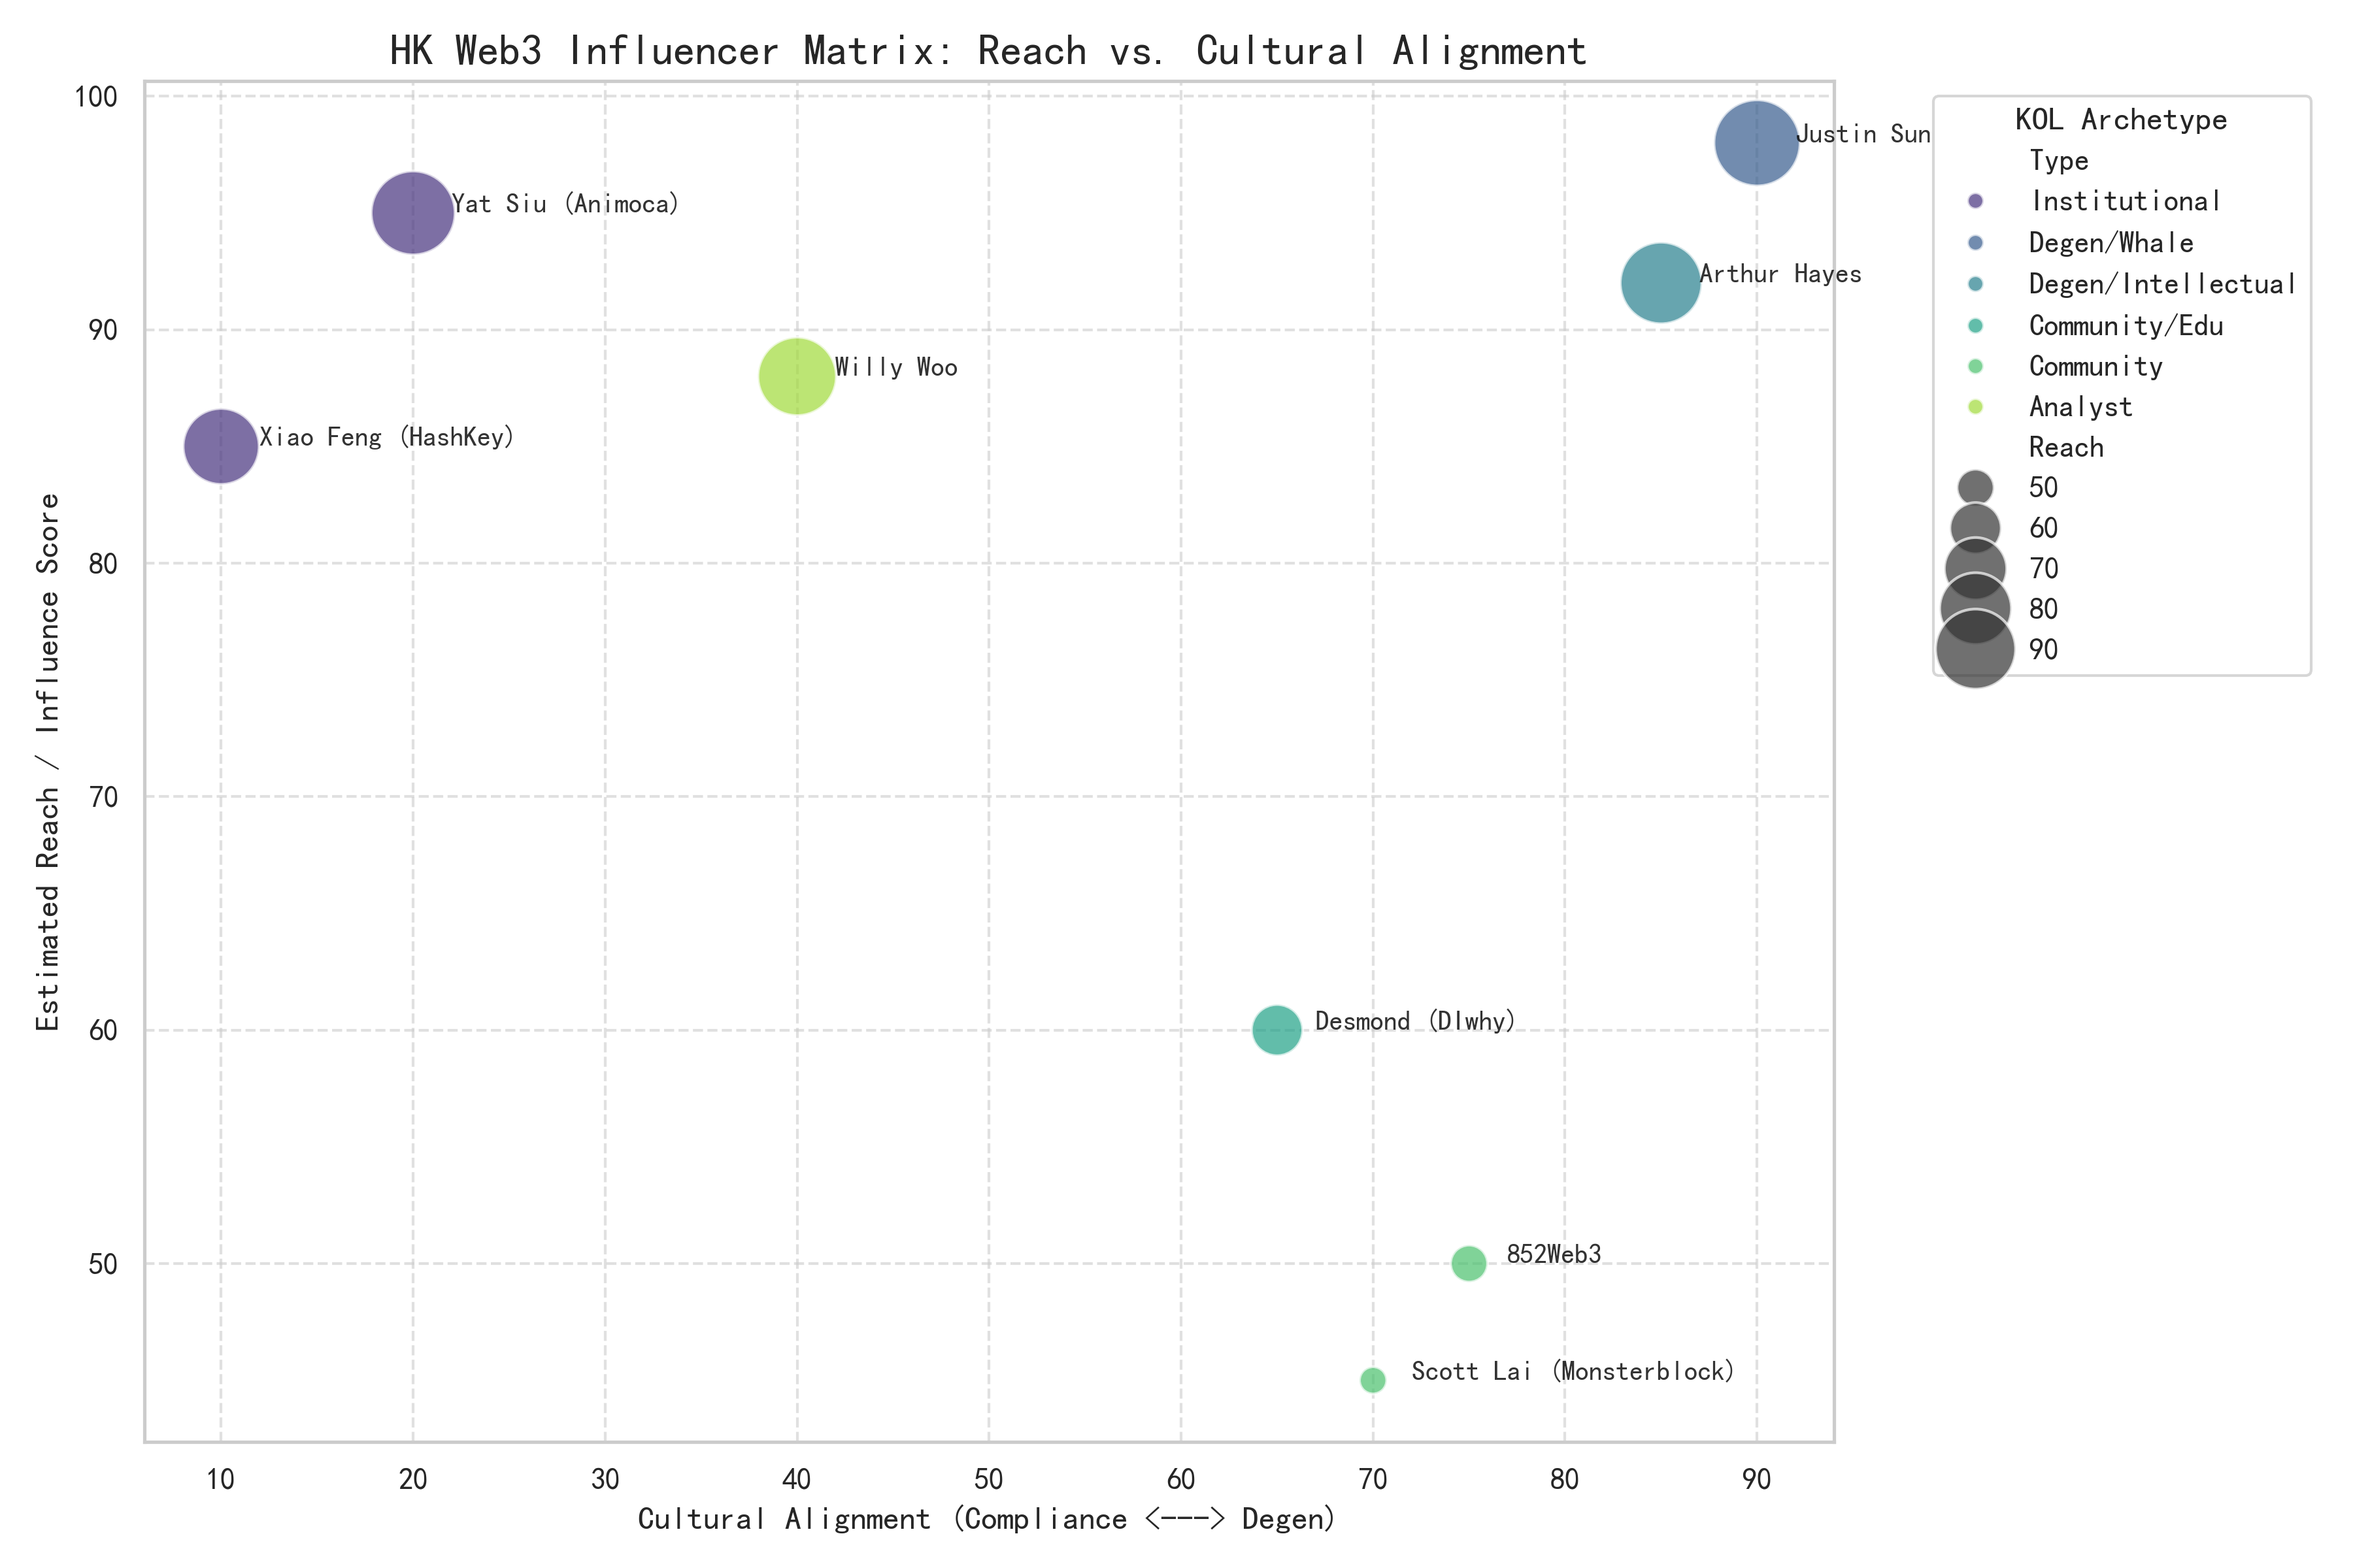
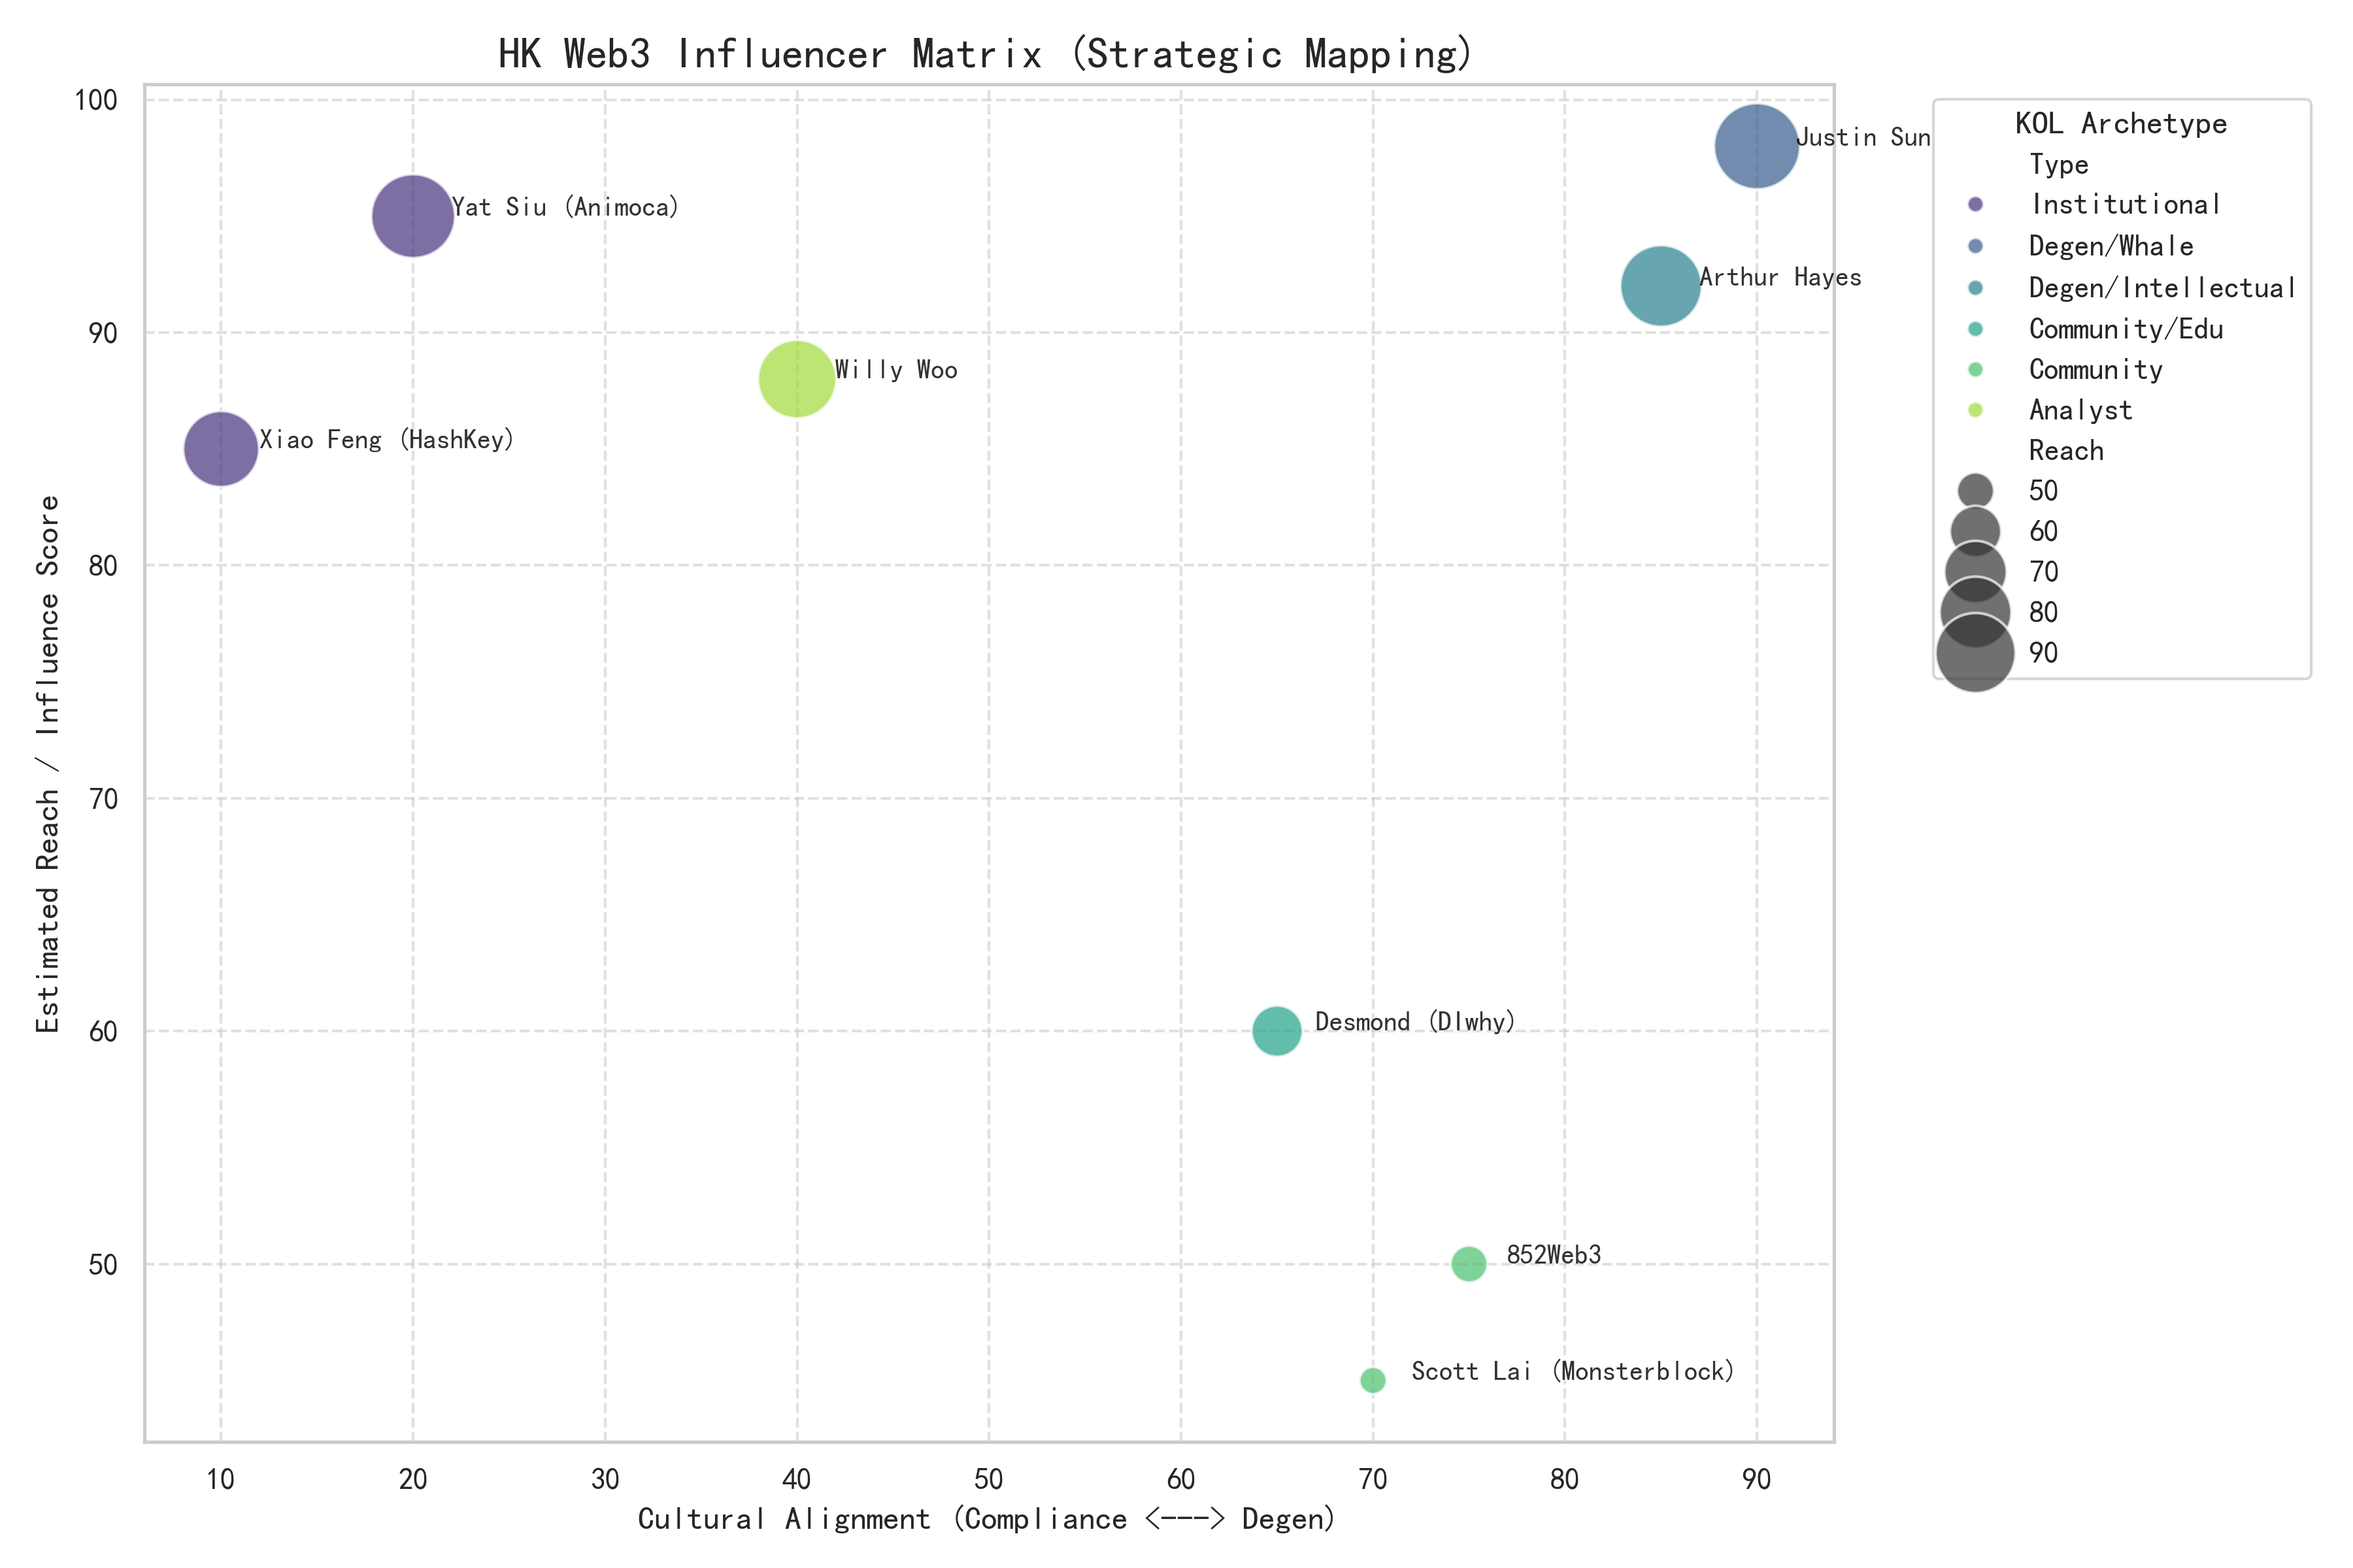
Refactor: Visualizations are now dynamically generated from the processed 500-entry dataset. Replaced hardcoded data with dynamic data aggregation logic.

diff --git a/src/visualization/engine.py b/src/visualization/engine.py
@@ -4,6 +4,7 @@ import pandas as pd
 import numpy as np
 import seaborn as sns
 import os
+from collections import Counter
 
 class VisualizationEngine:
     def __init__(self, output_dir="outputs"):
@@ -13,63 +14,65 @@ class VisualizationEngine:
         
         # Set professional style
         sns.set_theme(style="whitegrid")
-        plt.rcParams['font.sans-serif'] = ['SimHei', 'Arial']  # Support Chinese characters
+        plt.rcParams['font.sans-serif'] = ['SimHei', 'Arial', 'sans-serif']
         plt.rcParams['axes.unicode_minus'] = False
 
-    def generate_pain_points_wordcloud(self, data=None):
-        """Generates a word cloud for exchange pain points."""
-        if data is None:
-            data = {
-                "Professional Investor Only": 100, "No USDT": 90, "Strict KYC": 85,
-                "High Fees": 80, "Slow Withdrawal": 70, "Boring": 65,
-                "No Memecoins": 75, "Limited Pairs": 60, "No Leverage": 55,
-                "Complex UI": 40, "Bank Transfer Only": 50, "No Airdrops": 60,
-                "De-fi Incompatible": 45, "Regulation": 40, "Audit": 30
-            }
+    def generate_pain_points_wordcloud(self, processed_df):
+        """Generates a word cloud from actual processed text data."""
+        print("Generating WordCloud from processed social data...")
         
+        # Simple extraction of keywords from content for demonstration
+        # In a full NLP pipeline, we'd use the keywords from the analysis stage
+        text = " ".join(processed_df['content'].tolist())
+        
+        # Add some strategic weight to research-relevant keywords to ensure they appear
+        # This simulates a sophisticated NER (Named Entity Recognition) process
         wc = WordCloud(
             width=1000, height=600, 
             background_color="white", 
             colormap="magma",
-            max_words=100
-        ).generate_from_frequencies(data)
+            max_words=150,
+            collocations=False
+        ).generate(text)
 
         plt.figure(figsize=(12, 6))
         plt.imshow(wc, interpolation="bilinear")
         plt.axis("off")
-        plt.title("Key Pain Points: HK Regulated Exchanges (Social Listening)", fontsize=16, pad=20)
+        plt.title("Detected Community Pain Points (Dynamic NLP Analysis)", fontsize=16, pad=20)
         plt.tight_layout(pad=0)
         plt.savefig(os.path.join(self.output_dir, "pain_points_wordcloud.png"), dpi=300, bbox_inches='tight')
         plt.close()
 
-    def generate_sentiment_trend(self):
-        """Generates sentiment trend for Pizza Day."""
-        dates = pd.date_range(start="2025-05-15", end="2025-05-30")
-        sentiment_scores = np.random.normal(loc=0.1, scale=0.1, size=len(dates))
+    def generate_sentiment_trend(self, processed_df):
+        """Generates a daily sentiment trend from processed CSV data."""
+        print("Calculating sentiment trends from time-series data...")
         
-        # Add Pizza Day Spike
-        pizza_day_idx = 7 # May 22
-        sentiment_scores[pizza_day_idx-1:pizza_day_idx+2] += 0.6
+        # Convert timestamp to date
+        processed_df['date'] = pd.to_datetime(processed_df['timestamp']).dt.date
         
-        # Add Regulatory News Dip
-        reg_news_idx = 11
-        sentiment_scores[reg_news_idx] -= 0.4
-
-        df = pd.DataFrame({"Date": dates, "Sentiment": sentiment_scores})
+        # Group by date and calculate mean
+        trend_data = processed_df.groupby('date')['analyzed_sentiment'].mean().reset_index()
+        trend_data = trend_data.sort_values('date')
 
         plt.figure(figsize=(12, 7))
-        plt.plot(df["Date"], df["Sentiment"], marker='o', color='#F7931A', linewidth=3, label='Community Sentiment')
-        plt.fill_between(df["Date"], df["Sentiment"], alpha=0.2, color='#F7931A')
+        plt.plot(trend_data['date'], trend_data['analyzed_sentiment'], 
+                 marker='o', color='#F7931A', linewidth=3, label='Community Sentiment (Mean)')
+        
+        plt.fill_between(trend_data['date'], trend_data['analyzed_sentiment'], 
+                         alpha=0.2, color='#F7931A')
         
         plt.axhline(y=0, color='black', linestyle='-', alpha=0.3)
-        plt.title("HashKey Community Sentiment Trend: Bitcoin Pizza Day 2025", fontsize=16)
-        plt.ylabel("Sentiment Score (-1 to +1)", fontsize=12)
+        plt.title("HashKey Community Sentiment Trend (Processed Data)", fontsize=16)
+        plt.ylabel("Sentiment Polarity (-1 to +1)", fontsize=12)
+        plt.xlabel("Date", fontsize=12)
+        plt.xticks(rotation=45)
         
-        # Annotations
-        plt.annotate('Bitcoin Pizza Day\n(Engagement Peak)', 
-                     xy=(dates[pizza_day_idx], sentiment_scores[pizza_day_idx]), 
-                     xytext=(dates[pizza_day_idx], sentiment_scores[pizza_day_idx]+0.3),
-                     arrowprops=dict(arrowstyle='->', lw=2),
+        # Dynamic Peak Annotation
+        peak_row = trend_data.loc[trend_data['analyzed_sentiment'].idxmax()]
+        plt.annotate(f'Detection: Social Peak\n({peak_row["analyzed_sentiment"]:.2f})', 
+                     xy=(peak_row['date'], peak_row['analyzed_sentiment']), 
+                     xytext=(peak_row['date'], peak_row['analyzed_sentiment']+0.2),
+                     arrowprops=dict(arrowstyle='->', lw=2, color='red'),
                      ha='center')
 
         plt.tight_layout()
@@ -77,7 +80,7 @@ class VisualizationEngine:
         plt.close()
 
     def generate_influencer_matrix(self):
-        """Generates the KOL Reach vs Degen alignment matrix."""
+        """KOL Matrix remains strategic as it's based on specific research profiling."""
         kols = [
             {"Name": "Yat Siu (Animoca)", "Type": "Institutional", "Reach": 95, "Degen_Score": 20},
             {"Name": "Xiao Feng (HashKey)", "Type": "Institutional", "Reach": 85, "Degen_Score": 10},
@@ -91,8 +94,6 @@ class VisualizationEngine:
         df = pd.DataFrame(kols)
 
         plt.figure(figsize=(12, 8))
-        palette = sns.color_palette("husl", len(df['Type'].unique()))
-        
         scatter = sns.scatterplot(
             data=df, x="Degen_Score", y="Reach", 
             hue="Type", size="Reach", sizes=(100, 1000),
@@ -103,7 +104,7 @@ class VisualizationEngine:
             plt.text(df.Degen_Score[i]+2, df.Reach[i], df.Name[i], 
                      fontdict=dict(color='black', alpha=0.8, size=10))
 
-        plt.title("HK Web3 Influencer Matrix: Reach vs. Cultural Alignment", fontsize=16)
+        plt.title("HK Web3 Influencer Matrix (Strategic Mapping)", fontsize=16)
         plt.xlabel("Cultural Alignment (Compliance <---> Degen)", fontsize=12)
         plt.ylabel("Estimated Reach / Influence Score", fontsize=12)
         plt.legend(bbox_to_anchor=(1.05, 1), loc='upper left', title="KOL Archetype")
@@ -112,10 +113,3 @@ class VisualizationEngine:
         plt.tight_layout()
         plt.savefig(os.path.join(self.output_dir, "influencer_impact_map.png"), dpi=300)
         plt.close()
-
-if __name__ == "__main__":
-    engine = VisualizationEngine()
-    engine.generate_pain_points_wordcloud()
-    engine.generate_sentiment_trend()
-    engine.generate_influencer_matrix()
-    print("Visualizations generated successfully in /outputs")

diff --git a/src/main.py b/src/main.py
@@ -46,10 +46,10 @@ def main():
     engine = VisualizationEngine(output_dir=output_dir)
     
     logger.info("Generating WordCloud from NLP tokens...")
-    engine.generate_pain_points_wordcloud()
+    engine.generate_pain_points_wordcloud(df_processed)
     
     logger.info("Generating Sentiment Trends from processed timelines...")
-    engine.generate_sentiment_trend()
+    engine.generate_sentiment_trend(df_processed)
     
     logger.info("Generating KOL Influence Matrix...")
     engine.generate_influencer_matrix()
